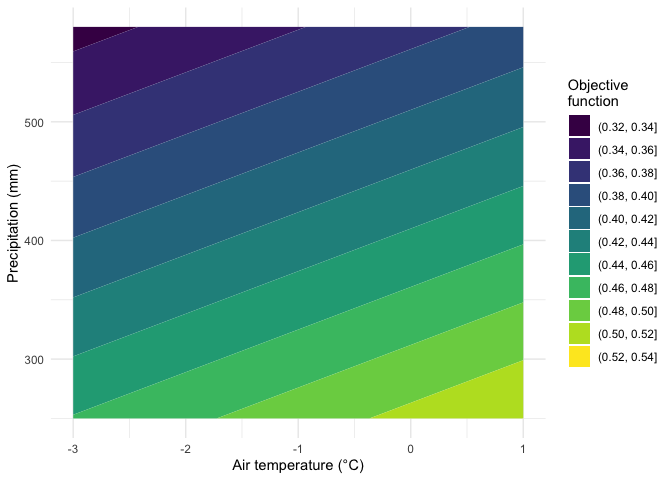
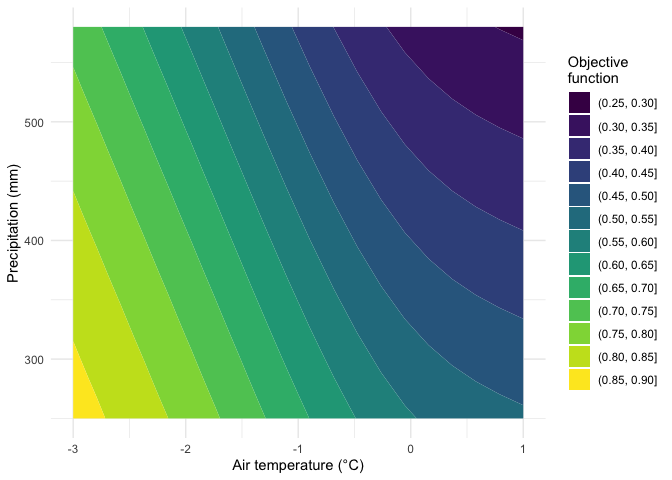
changed response variable in examples to beta distribution

diff --git a/README.md b/README.md
@@ -36,12 +36,12 @@ library(csmp)
 set.seed(10)
 airtemp <- rnorm(20, mean = 0, sd = 1)
 precip <- rnorm(20, mean = 500, sd = 100)
-objective <- runif(20, min = 0, max = 1)
+objective <- rbeta(20, 1, 1)
 
 ans <- csmp(airtemp, precip, objective, return_plot = TRUE)
 ans$stats
-#>     rsquared p_airtemp  p_precip  csmp_warm   csmp_cool   csmp_dry    csmp_wet
-#> 3 -0.0885348 0.8428947 0.5554549 0.01531651 -0.01905679 0.05575412 -0.04555934
+#>      rsquared p_airtemp  p_precip   csmp_warm csmp_cool   csmp_dry    csmp_wet
+#> 3 -0.02086214 0.2880655 0.3052486 -0.04896074 0.1660792 0.09383768 -0.07572375
 ans$contour_plot 
 ```
 
@@ -79,8 +79,8 @@ ans <- csmp(airtemp, precip, objective,
             new_airtemp = c(-4, 4),
             new_precip = c(100, 800))
 ans$stats
-#>     rsquared p_airtemp  p_precip  csmp_warm   csmp_cool  csmp_dry   csmp_wet
-#> 3 -0.0885348 0.8428947 0.5554549 0.05946465 -0.05592653 0.1324672 -0.1411722
+#>      rsquared p_airtemp  p_precip  csmp_warm csmp_cool  csmp_dry   csmp_wet
+#> 3 -0.02086214 0.2880655 0.3052486 -0.1262378 0.4482555 0.2178011 -0.2212498
 ```
 
 # References
